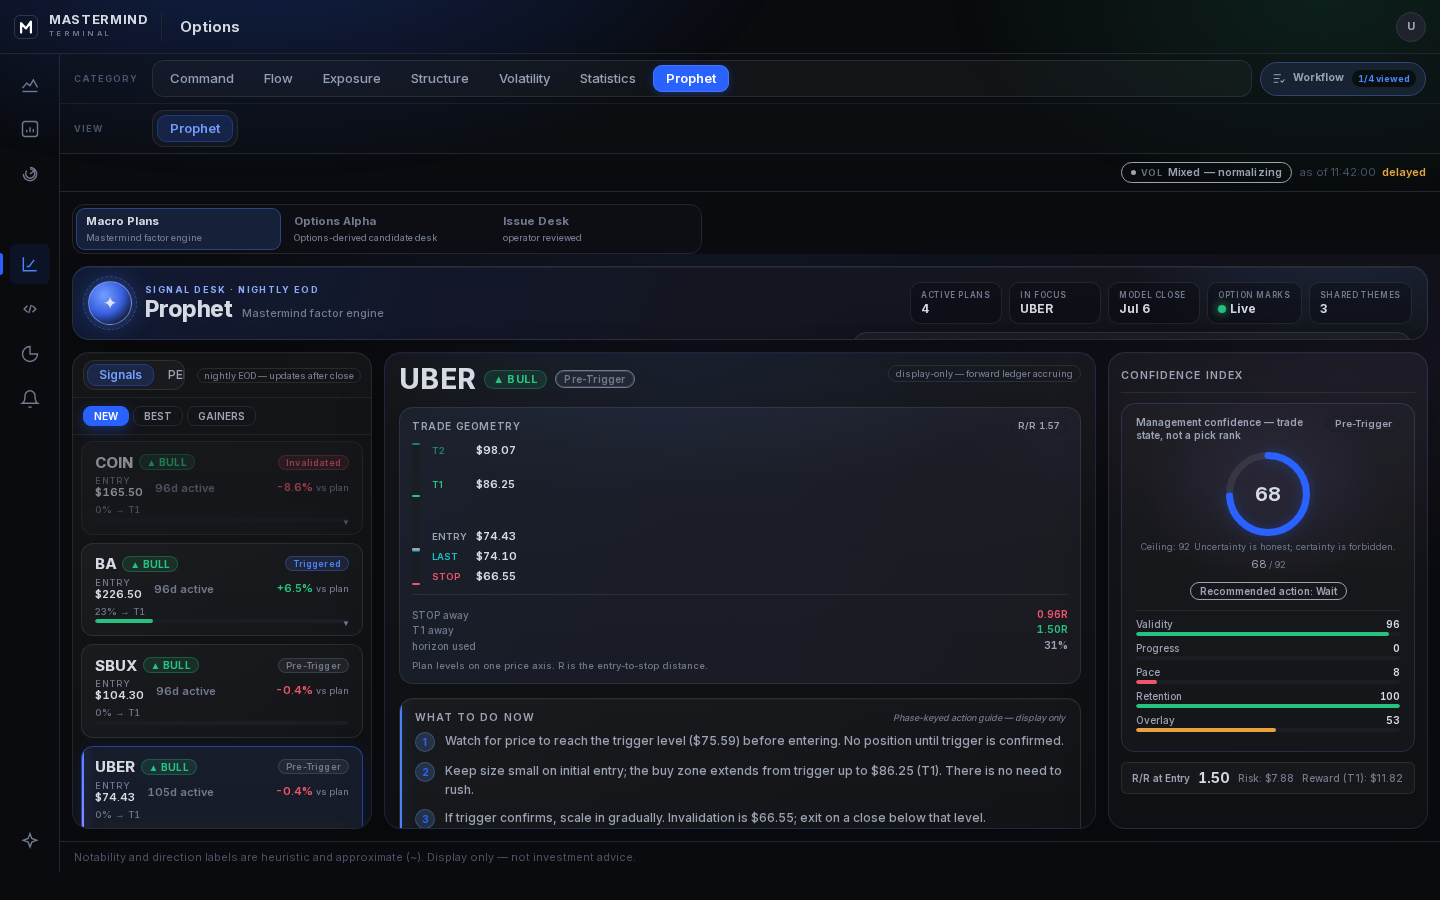
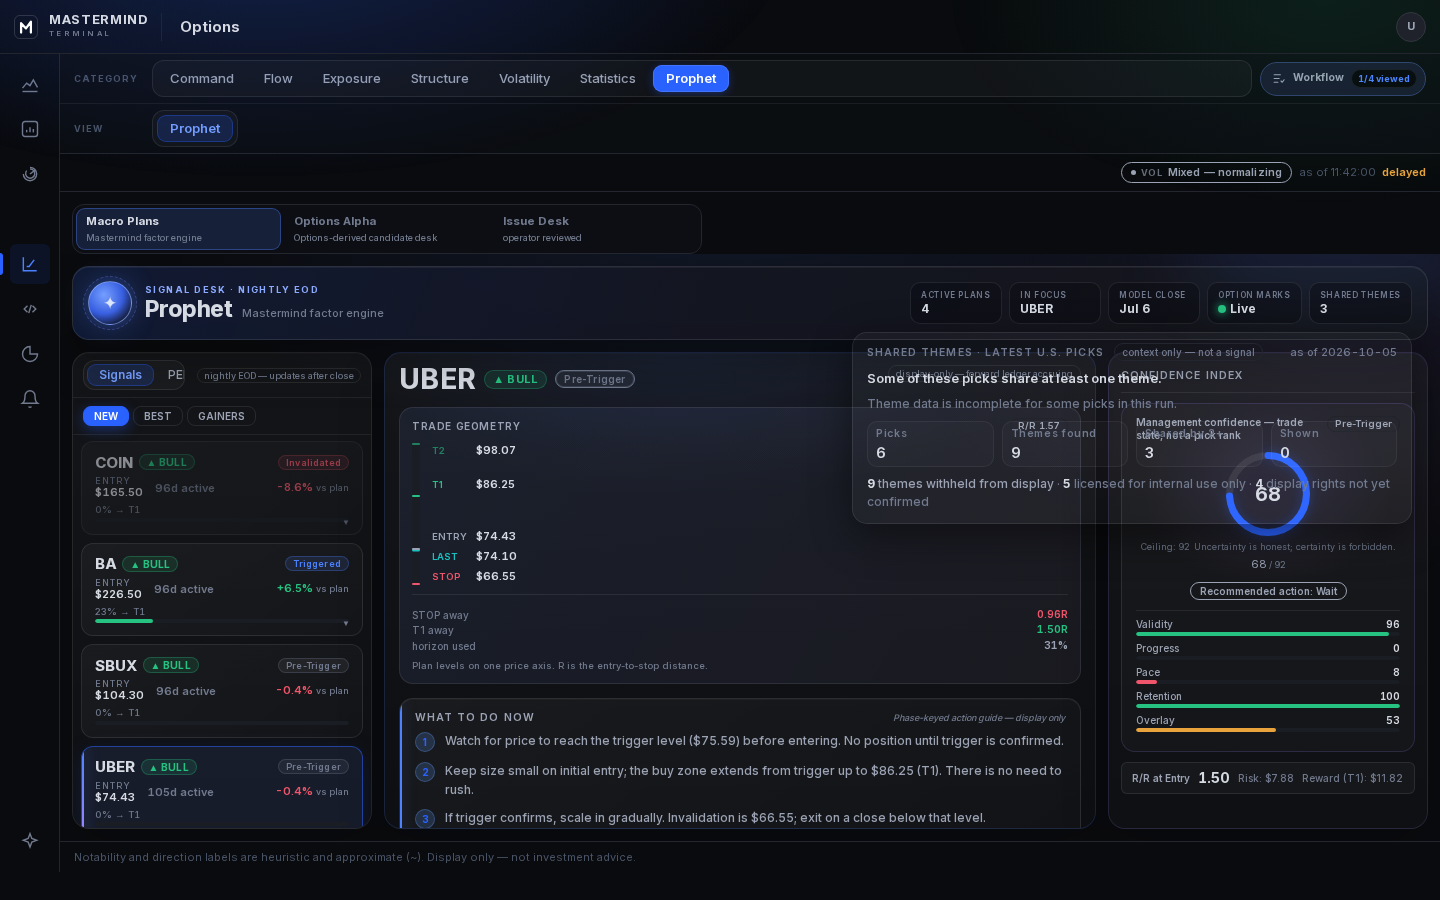
prophet(us): gate #8 D2 r3 - plain-language CI fix (hoisted popover), in-flight-only cohort fetch dedupe, drop committed body draft

diff --git a/terminal/lib/__tests__/SelectionCohortCard.test.tsx b/terminal/lib/__tests__/SelectionCohortCard.test.tsx
@@ -1,10 +1,13 @@
 // @vitest-environment jsdom
 import { readFileSync } from "node:fs";
 import { join } from "node:path";
-import { afterEach, beforeEach, describe, expect, it } from "vitest";
+import { afterEach, beforeEach, describe, expect, it, vi } from "vitest";
 import { act } from "react";
 import { createRoot, type Root } from "react-dom/client";
-import { SelectionCohortCard } from "@/components/prophet/SelectionCohortCard";
+import {
+  SelectionCohortCard,
+  useSelectionCohort,
+} from "@/components/prophet/SelectionCohortCard";
 import { parseSelectionCohort } from "@/lib/selectionCohort";
 
 (globalThis as unknown as { IS_REACT_ACT_ENVIRONMENT?: boolean }).IS_REACT_ACT_ENVIRONMENT = true;
@@ -23,6 +26,15 @@ const EMPTY = JSON.parse(
 let container: HTMLDivElement;
 let root: Root;
 
+function jsonResponse(body: unknown, ok = true, status = 200): Response {
+  return { ok, status, json: async () => body } as Response;
+}
+
+function CohortStateProbe() {
+  const { view } = useSelectionCohort();
+  return <div data-testid="cohort-hook-state" data-state={view?.kind ?? "pending"} />;
+}
+
 async function renderCard(lang: "en" | "zh", view: ReturnType<typeof parseSelectionCohort> | null) {
   container = document.createElement("div");
   document.body.appendChild(container);
@@ -33,7 +45,7 @@ async function renderCard(lang: "en" | "zh", view: ReturnType<typeof parseSelect
 }
 
 beforeEach(() => {
-  // no fetch — view is passed from parent
+  vi.restoreAllMocks();
 });
 
 afterEach(() => {
@@ -41,6 +53,7 @@ afterEach(() => {
     root?.unmount();
   });
   container?.remove();
+  vi.unstubAllGlobals();
 });
 
 describe("SelectionCohortCard", () => {
@@ -112,5 +125,81 @@ describe("SelectionCohortCard", () => {
       "The theme read for these picks didn't pass its checks, so nothing is shown.",
     );
     expect(container.querySelectorAll("[title]").length).toBe(0);
+  });
+});
+
+describe("useSelectionCohort fetch dedupe", () => {
+  it("(a) two mounts in the same act share one fetch", async () => {
+    const fetchMock = vi.fn(() => Promise.resolve(jsonResponse(READY)));
+    vi.stubGlobal("fetch", fetchMock);
+
+    const c1 = document.createElement("div");
+    const c2 = document.createElement("div");
+    document.body.appendChild(c1);
+    document.body.appendChild(c2);
+    const r1 = createRoot(c1);
+    const r2 = createRoot(c2);
+
+    await act(async () => {
+      r1.render(<CohortStateProbe />);
+      r2.render(<CohortStateProbe />);
+      await Promise.resolve();
+    });
+
+    expect(fetchMock).toHaveBeenCalledTimes(1);
+
+    act(() => {
+      r1.unmount();
+      r2.unmount();
+    });
+    c1.remove();
+    c2.remove();
+  });
+
+  it("(b) remount after settle refetches; second ready wins over first 503", async () => {
+    let call = 0;
+    const fetchMock = vi.fn(() => {
+      call += 1;
+      if (call === 1) {
+        return Promise.resolve(jsonResponse({ error: "feed unavailable" }, false, 503));
+      }
+      return Promise.resolve(jsonResponse(READY));
+    });
+    vi.stubGlobal("fetch", fetchMock);
+
+    const c1 = document.createElement("div");
+    document.body.appendChild(c1);
+    const r1 = createRoot(c1);
+
+    await act(async () => {
+      r1.render(<CohortStateProbe />);
+      await Promise.resolve();
+      await Promise.resolve();
+    });
+
+    act(() => {
+      r1.unmount();
+    });
+    c1.remove();
+
+    const c2 = document.createElement("div");
+    document.body.appendChild(c2);
+    const r2 = createRoot(c2);
+
+    await act(async () => {
+      r2.render(<CohortStateProbe />);
+      await Promise.resolve();
+      await Promise.resolve();
+    });
+
+    expect(fetchMock).toHaveBeenCalledTimes(2);
+    expect(c2.querySelector("[data-testid=cohort-hook-state]")?.getAttribute("data-state")).toBe(
+      "ready",
+    );
+
+    act(() => {
+      r2.unmount();
+    });
+    c2.remove();
   });
 });

diff --git a/terminal/components/prophet/SelectionCohortCard.tsx b/terminal/components/prophet/SelectionCohortCard.tsx
@@ -23,7 +23,7 @@ import styles from "./SelectionCohortCard.module.css";
 const POLL_MS = 300_000; // producer republishes at most nightly; the route caches 5 min
 const COHORT_API = "/api/nw?f=selection_cohort_us";
 
-/** Dev Strict Mode mounts twice; share one in-flight initial fetch per page load. */
+/** Dev Strict Mode mounts twice; dedupe the concurrent in-flight request only. */
 let initialCohortFetch: Promise<SelectionCohortView> | null = null;
 
 function fetchCohortProjection(): Promise<SelectionCohortView> {
@@ -31,7 +31,10 @@ function fetchCohortProjection(): Promise<SelectionCohortView> {
     initialCohortFetch = fetch(COHORT_API)
       .then((r) => (r.ok ? r.json() : null))
       .catch(() => null)
-      .then((raw: unknown) => parseSelectionCohort(raw));
+      .then((raw: unknown) => parseSelectionCohort(raw))
+      .finally(() => {
+        initialCohortFetch = null;
+      });
   }
   return initialCohortFetch;
 }
@@ -237,6 +240,21 @@ export function SelectionCohortMastheadTile({
   };
   const tileValue = sharedThemesTileValue(view);
 
+  const popover =
+    open && view ? (
+      <div
+        id={popoverId}
+        role="dialog"
+        aria-modal="false"
+        aria-labelledby="selection-cohort-popover-title"
+        className={`obs-card ${styles.popover}`}
+        data-testid="selection-cohort-popover"
+        data-state={view.kind}
+      >
+        <SelectionCohortBody lang={lang} view={view} panel />
+      </div>
+    ) : null;
+
   return (
     <div ref={wrapRef} className={styles.tileWrap} data-testid="selection-cohort-tile-wrap">
       <button
@@ -252,19 +270,7 @@ export function SelectionCohortMastheadTile({
         <span>{cohortTileLabel(t)}</span>
         <b>{tileValue}</b>
       </button>
-      {open && view ? (
-        <div
-          id={popoverId}
-          role="dialog"
-          aria-modal="false"
-          aria-labelledby="selection-cohort-popover-title"
-          className={`obs-card ${styles.popover}`}
-          data-testid="selection-cohort-popover"
-          data-state={view.kind}
-        >
-          <SelectionCohortBody lang={lang} view={view} panel />
-        </div>
-      ) : null}
+      {popover}
     </div>
   );
 }
